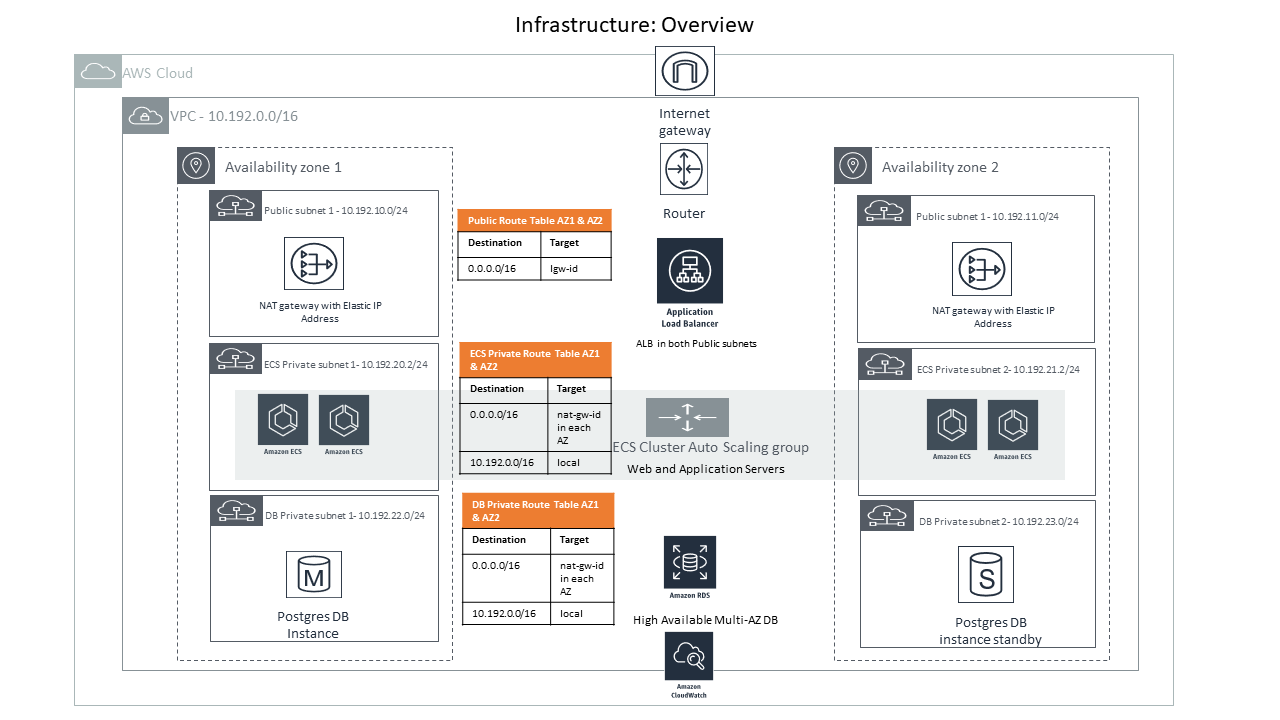
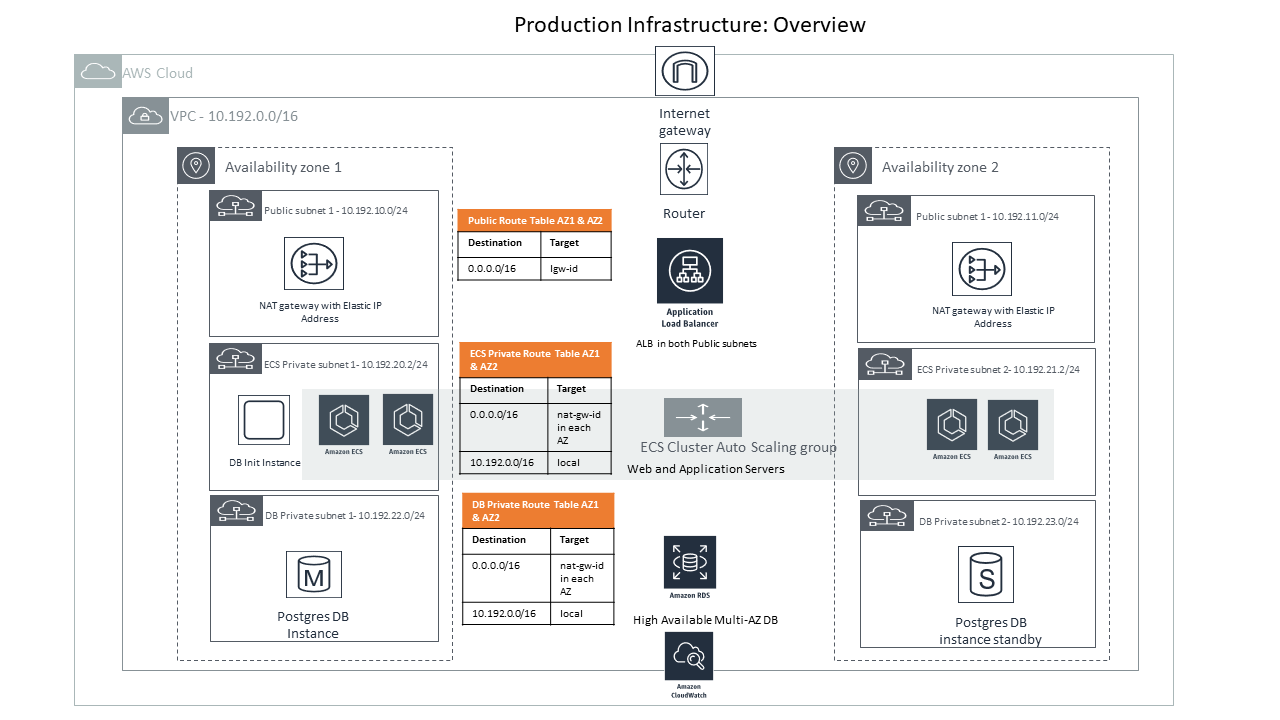
Include changes for testing of the setup and the EC2 instance for DB initiation

diff --git a/README.md b/README.md
@@ -37,6 +37,7 @@ The span-up for the TechTestLAb infrastructure consists of a set of nested templ
  - Centralized container logging with Amazon CloudWatch Logs.  THIS NEEDS TO BE ADJUSTED.
  - A [Lambda Function](https://docs.aws.amazon.com/lambda/latest/dg/welcome.html) and [Auto Scaling Lifecycle Hook](https://docs.aws.amazon.com/autoscaling/ec2/userguide/lifecycle-hooks.html) to [drain Tasks from your Container Instances](https://docs.aws.amazon.com/AmazonECS/latest/developerguide/container-instance-draining.html) when an Instance is selected for Termination in your Auto Scaling Group.  THIS NEEDS TO BE ADJUSTED.
  - A Highly Available AWS RDS (Postgres) DB spanning 2 Availability Zones (active + hot standby).
+ - An EC2 instance in the first AZ used purely to initiate the DataBase on start of the stack
 
 #### Infrastructure: Communication Traffic Flow
 ![infrastructure-communication-traffic-flow](images/infrastructure-communication-traffic-flow.png)
